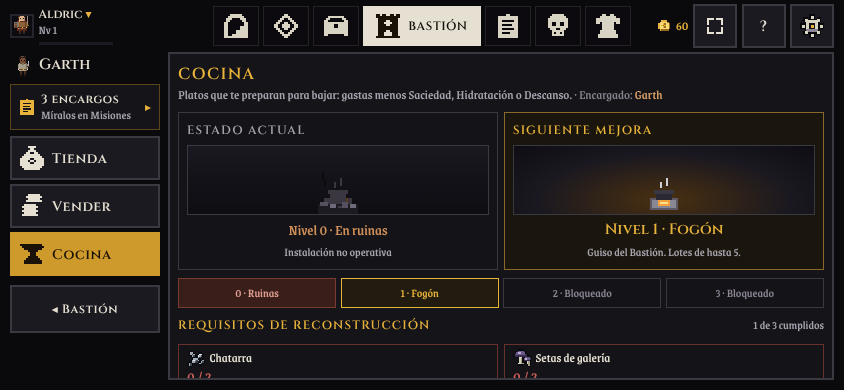
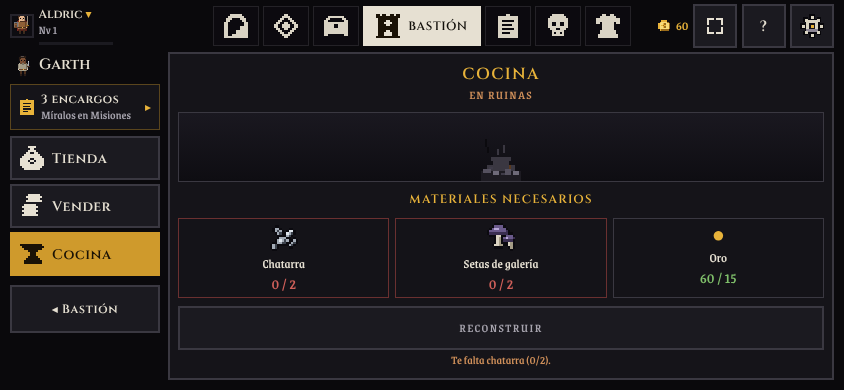
Gravevow (Vesrions 0.9.7.8)

diff --git a/src/game/ui/StationPanels.tsx b/src/game/ui/StationPanels.tsx
@@ -280,61 +280,40 @@ function RuinPanel({ id, onGo, block, children }: { id: ModuleId; onGo?: GoTo; b
   const profile = useGame((s) => s.profile)!;
   const phone = useLayout() === 'phone';
   const m = MODULES[id];
-  const by = VENDORS[m.by];
   const cost = nextCost(profile, id);
   const artRef = useRef<HTMLDivElement>(null);
-  const [artH, setArtH] = useState(0);
+  const [art, setArt] = useState({ w: 0, h: 0 });
   useLayoutEffect(() => {
     const el = artRef.current; if (!el || typeof ResizeObserver === 'undefined') return;
-    const ro = new ResizeObserver(() => setArtH(el.clientWidth)); ro.observe(el); setArtH(el.clientWidth); return () => ro.disconnect();
+    const f = () => setArt({ w: el.clientWidth, h: el.clientHeight }); const ro = new ResizeObserver(f); ro.observe(el); f(); return () => ro.disconnect();
   }, []);
-  const artBox = phone ? 70 : artH > 0 ? 'clamp(110px, 20vh, 220px)' : 140;
-  const scale = Math.max(1, Math.min(Math.floor(((phone ? 70 : Math.min(220, Math.max(110, (typeof window !== 'undefined' ? window.innerHeight : 800) * 0.2))) - 10) / STATION_ART_H), Math.floor(((artH || 400) / 2 - 24) / STATION_ART_W)));
+  // Escritorio y tableta: el dibujo ocupa todo el alto libre (escala entera); móvil: franja fija
+  const scale = art.h ? Math.max(1, Math.min(Math.floor((art.h - 12) / STATION_ART_H), Math.floor((art.w - 24) / STATION_ART_W))) : 2;
   const reqs = cost ? [...cost.items.map((it) => ({ key: it.itemId, name: getItem(it.itemId).name, have: ownedQty(profile, it.itemId), need: it.qty, icon: it.itemId, src: MATERIAL_SOURCES[it.itemId] })),
     ...(cost.gold > 0 ? [{ key: 'gold', name: 'Oro', have: profile.gold, need: cost.gold, icon: null as string | null, src: undefined }] : [])] : [];
   return (
-    <div className="flex flex-col w-full ruin" style={{ gap: phone ? 8 : 12 }} data-testid={`station-detail-${id}`}>
-      <div>
-        <h3 className="font-display text-gold uppercase tracking-[0.08em]" style={{ fontSize: phone ? 16 : 20 }} data-testid={`module-${id}`}>{m.name}</h3>
-        <p className="text-[13px] text-stone-300">{m.purpose} <span className="text-stone-500">· Encargado: <span style={{ color: by.color }}>{by.name}</span></span></p>
-      </div>
-      <div ref={artRef} className="grid grid-cols-2 gap-2">
-        <div className="ruin-card">
-          <div className="ruin-cap !text-stone-400">Estado actual</div>
-          <div className="ruin-art" style={{ height: artBox }}><img src={stationArtUrl(id, true)} className="pixelated" alt="En ruinas" draggable={false} style={{ width: STATION_ART_W * scale, height: STATION_ART_H * scale }} /></div>
-          <div className="text-center text-[15px] text-[#d0905a]" data-testid={`module-level-${id}`}>Nivel 0 · En ruinas</div>
-          <div className="text-center text-[12px] text-stone-400">Instalación no operativa</div>
-        </div>
-        <div className="ruin-card next" data-testid={`station-level-${id}-1`}>
-          <div className="ruin-cap">Siguiente mejora</div>
-          <div className="ruin-art lit" style={{ height: artBox }}><img src={stationArtUrl(id, false)} className="pixelated" alt={m.levels[1].name} draggable={false} style={{ width: STATION_ART_W * scale, height: STATION_ART_H * scale }} /></div>
-          <div className="text-center text-[15px] text-gold font-display">Nivel 1 · {m.levels[1].name}</div>
-          <div className="text-center text-[12px] text-stone-300 leading-snug">{m.levels[1].effect}</div>
-        </div>
-      </div>
-      <div className="grid grid-cols-4 gap-1.5" data-testid={`station-steps-${id}`}>
-        {[0, 1, 2, 3].map((k) => (
-          <div key={k} className={`ruin-step ${k === 0 ? 'now' : k === 1 ? 'next' : ''}`}>{k} · {k === 0 ? 'Ruinas' : k === 1 ? m.levels[1].name : 'Bloqueado'}</div>
-        ))}
-      </div>
-      <div className="flex justify-between items-baseline"><div className="ruin-cap">Requisitos de reconstrucción</div><span className="text-[12px] text-stone-400" data-testid={`req-count-${id}`}>{reqs.filter((r) => r.have >= r.need).length} de {reqs.length} cumplidos</span></div>
-      <div className="grid gap-2" style={{ gridTemplateColumns: `repeat(${Math.min(reqs.length, phone ? 2 : 3)}, minmax(0,1fr))` }} data-testid={`station-cost-${id}`}>
+    <div className="flex flex-col w-full ruin mx-auto" style={{ gap: phone ? 8 : 14, maxWidth: 980, height: phone ? undefined : 'calc(100vh - 128px)' }} data-testid={`station-detail-${id}`}>
+      <h3 className="font-display text-gold uppercase tracking-[0.08em] text-center" style={{ fontSize: phone ? 16 : 20 }} data-testid={`module-${id}`}>{m.name}</h3>
+      <div className="text-center text-[12px] uppercase tracking-[0.1em] text-[#d0905a] -mt-2" data-testid={`module-level-${id}`}>En ruinas</div>
+      <div ref={artRef} className="ruin-art" style={phone ? { height: 70 } : { flex: 1, minHeight: 140 }}><img src={stationArtUrl(id, true)} className="pixelated" alt="En ruinas" draggable={false} style={{ width: STATION_ART_W * scale, height: STATION_ART_H * scale }} /></div>
+      <div className="ruin-cap text-center">Materiales necesarios</div>
+      <div className="grid gap-2" style={{ gridTemplateColumns: `repeat(${reqs.length}, minmax(0,1fr))` }} data-testid={`station-cost-${id}`}>
         {reqs.map((r) => {
           const ok = r.have >= r.need;
-          return (
-            <div key={r.key} className={`ruin-req ${ok ? 'ok' : 'bad'}`} data-testid={`req-${id}-${r.key}`}>
-              <div className="flex items-center gap-1.5 text-[13px] text-parchment">{r.icon ? <ItemIcon itemId={r.icon} size={18} /> : <span className="text-gold">●</span>}<span className="min-w-0">{r.name}</span></div>
-              <div className="ruin-qty">{r.have} / {r.need}</div>
-              {ok ? <div className="text-[12px]" style={{ color: OK }}>✓ Disponible</div>
-                : r.src?.go && onGo ? <button type="button" className="ruin-go" onClick={() => { sfx('click'); onGo(r.src!.go!.vendor, r.src!.go!.view); }} title={r.src.text} data-testid={`source-${id}-${r.key}`}>{r.src.go.view === 'shop' ? `Comprar a ${VENDORS[r.src.go.vendor].name}` : `Ir a ${VENDORS[r.src.go.vendor].name}`} ›</button>
-                : <div className="text-[12px] text-stone-400 leading-snug" data-testid={`source-${id}-${r.key}`}>{r.src?.text ?? 'Te falta'}</div>}
-            </div>
-          );
+          const go = !ok && r.src?.go && onGo ? r.src.go : null;
+          const body = (<>
+            {r.icon ? <ItemIcon itemId={r.icon} size={28} /> : <span className="text-gold text-[22px] leading-none">●</span>}
+            <span className="text-[13px] text-parchment">{r.name}</span>
+            <span className="ruin-qty">{r.have} / {r.need}</span>
+          </>);
+          return go
+            ? <button key={r.key} type="button" className="ruin-req bad" title={`${r.src!.text} Toca para ir.`} onClick={() => { sfx('click'); onGo!(go.vendor, go.view); }} data-testid={`req-${id}-${r.key}`}>{body}</button>
+            : <div key={r.key} className={`ruin-req ${ok ? 'ok' : 'bad'}`} title={ok ? undefined : r.src?.text} data-testid={`req-${id}-${r.key}`}>{body}</div>;
         })}
       </div>
-      <div className="mt-auto flex flex-col gap-1">
+      <div className="flex flex-col gap-1">
         <button className={`btn font-display tracking-[0.12em] uppercase ${block ? '' : 'btn-gold'}`} style={{ minHeight: 'max(44px, var(--btn-h))' }} disabled={!!block}
-          onClick={() => { sfx('click'); actions.upgradeModule(id); }} data-testid={`upgrade-${id}`} aria-describedby={block ? `upgrade-block-${id}` : undefined}>Reconstruir {m.name}</button>
+          onClick={() => { sfx('click'); actions.upgradeModule(id); }} data-testid={`upgrade-${id}`} aria-describedby={block ? `upgrade-block-${id}` : undefined}>Reconstruir</button>
         {block ? <div className="text-[12px] text-center text-[#d0905a]" id={`upgrade-block-${id}`} data-testid={`upgrade-block-${id}`}>{block}</div>
           : <div className="text-[12px] text-center" style={{ color: OK }} data-testid={`upgrade-ok-${id}`}>Tienes todo lo que hace falta.</div>}
       </div>

diff --git a/src/game/game.css b/src/game/game.css
@@ -1539,8 +1539,10 @@ button.share-slot{cursor:pointer}
 .ruin-step.now{background:#3a1e1a;border-color:#7a3a30;color:#e0a090}.ruin-step.next{border-color:#e8b33a;color:#e8b33a;background:#221c10}
 .ruin-box{border:1px solid #3a3841;background:#19171f;padding:8px 12px}
 .ruin-cap{font-family:var(--font-display);font-size:12px;letter-spacing:.1em;text-transform:uppercase;color:#e8b33a;margin-bottom:2px}
-.ruin-req{border:1px solid #3a3841;background:#141318;padding:8px 10px;display:flex;flex-direction:column;gap:2px;min-width:0}
-.ruin-req.bad{border-color:#6a3030}.ruin-qty{font-size:20px;line-height:1.1}.ruin-req.ok .ruin-qty{color:#7fbf6a}.ruin-req.bad .ruin-qty{color:#d0605a}
+.ruin-req{border:1px solid #3a3841;background:#141318;padding:10px 6px;display:flex;flex-direction:column;align-items:center;text-align:center;gap:4px;min-width:0;font:inherit;color:inherit}
+button.ruin-req{cursor:pointer}button.ruin-req:hover{border-color:#d0605a;background:#1e1416}
+.ruin-req.bad{border-color:#6a3030}.ruin-qty{font-size:16px;line-height:1.1}
+@media (min-height:700px){.ruin-req{padding:16px 8px}.ruin-qty{font-size:20px}}.ruin-req.ok .ruin-qty{color:#7fbf6a}.ruin-req.bad .ruin-qty{color:#d0605a}
 .ruin-go{align-self:flex-start;font:inherit;font-size:12px;color:#e8a070;background:none;border:0;padding:0;cursor:pointer;min-height:24px;text-align:left}.ruin-go:hover{text-decoration:underline}
 .is-touch .ruin-go{min-height:44px}
 @media (max-height:560px){.ruin-step{min-height:30px}.ruin-qty{font-size:15px}.ruin-req{padding:4px 8px}}

diff --git a/docs/estado-trabajo.md b/docs/estado-trabajo.md
@@ -939,9 +939,9 @@ bienvenida explica ficha, arrastrar y doble clic (antes iba en la barra). Captur
 - Heridas: Aventurero con barra de Vida + necesidades · «Estado físico» (franja de estado, cuerpo de bloques `BlockBody` solo en modo `full`, ficha con barra, «Estados activos») · Mochila con filtro Todo/Curación y «Ordenar mochila».
 - Móvil sin cambios de estructura. Capturas y script: mockups/plan-interfaz-2/alijo/ (VISTA=heridas, SOLO=).
 
-## 25/11 · Estaciones en ruinas reestructuradas
-- `RuinPanel` (StationPanels.tsx, clases `.ruin*`): cabecera con nombre, propósito y encargado; fichas «Estado actual» (ruinas) y «Siguiente mejora» (arte reconstruido, borde dorado) lado a lado; escalones 0–3, «Siguiente mejora», fichas de requisitos (tienes/necesitas, ✓ Disponible o enlace «Comprar a… / Ir a…») y «Reconstruir <estación>» con el motivo del bloqueo.
-- Estaciones reconstruidas sin cambios. Capturas y script: mockups/plan-interfaz-2/ruinas/ (MERC=, SOLO=).
+## 25/11 · Estaciones en ruinas (página intermedia simple)
+- `RuinPanel` (StationPanels.tsx, clases `.ruin*`): nombre + «En ruinas», dibujo en ruinas que llena el alto libre (escala entera; móvil franja de 70 px), «Materiales necesarios» en fichas centradas (icono, nombre, tienes/necesitas; la que falta lleva a su fuente al tocarla) y «Reconstruir» con el motivo del bloqueo.
+- Columnas izquierda (mercader) y derecha (tus materiales) sin cambios; estaciones reconstruidas sin cambios. Capturas y script: mockups/plan-interfaz-2/ruinas/.
 
 ## 25/11 · Misiones como diario en tres columnas
 - `QuestJournal` (src/game/ui/QuestJournal.tsx, clases `.qj*`), escritorio y tableta: «Tus misiones» (tarjetas compactas con clavo/chincheta, estado y sello «Lista/Cumplida»; listas primero; «+N espacios disponibles») · «Detalle de misión» (arte, objetivo con barra, recompensas en fichas, Cobrar/Entregar, Visitar a…, Fijar, Abandonar con confirmación) · «Tablón de encargos» (filtro Todos/mercader, encargos en fichas horizontales).

diff --git a/docs/guia-interfaz.md b/docs/guia-interfaz.md
@@ -329,7 +329,7 @@ Plan: `docs/plan-seguro-equipo.md`. Maquetas y capturas reales: `mockups/seguro-
 - Heridas: `BodyPanel full` pinta `BlockBody` (clases `.doll*`), `.body-banner` y `.body-states`; fuera del Alijo se usa la figura con etiquetas. Mochila: `CureBag` (filtro Curación apaga por `data-item`).
 
 ### Estación en ruinas
-`StationDetail` con nivel 0 devuelve `RuinPanel`: una sola columna (el retrato del encargado ya está en el raíl izquierdo). Requisitos en fichas `.ruin-req` (ok/bad) con «N de M cumplidos»; el texto de la fuente va en el `title` del enlace.
+`StationDetail` con nivel 0 devuelve `RuinPanel`: solo nombre, dibujo (flex:1, alto `calc(100vh - 128px)` en escritorio/tableta), fichas `.ruin-req` (ok/bad; la que falta es botón a su fuente, texto en `title`) y «Reconstruir».
 
 ### Misiones (diario)
 Tres columnas 28/42/30 (`.qj`). Estados por color del borde izquierdo: dorado en progreso, verde completada. Sin historial de entregadas (el juego no lo guarda).
